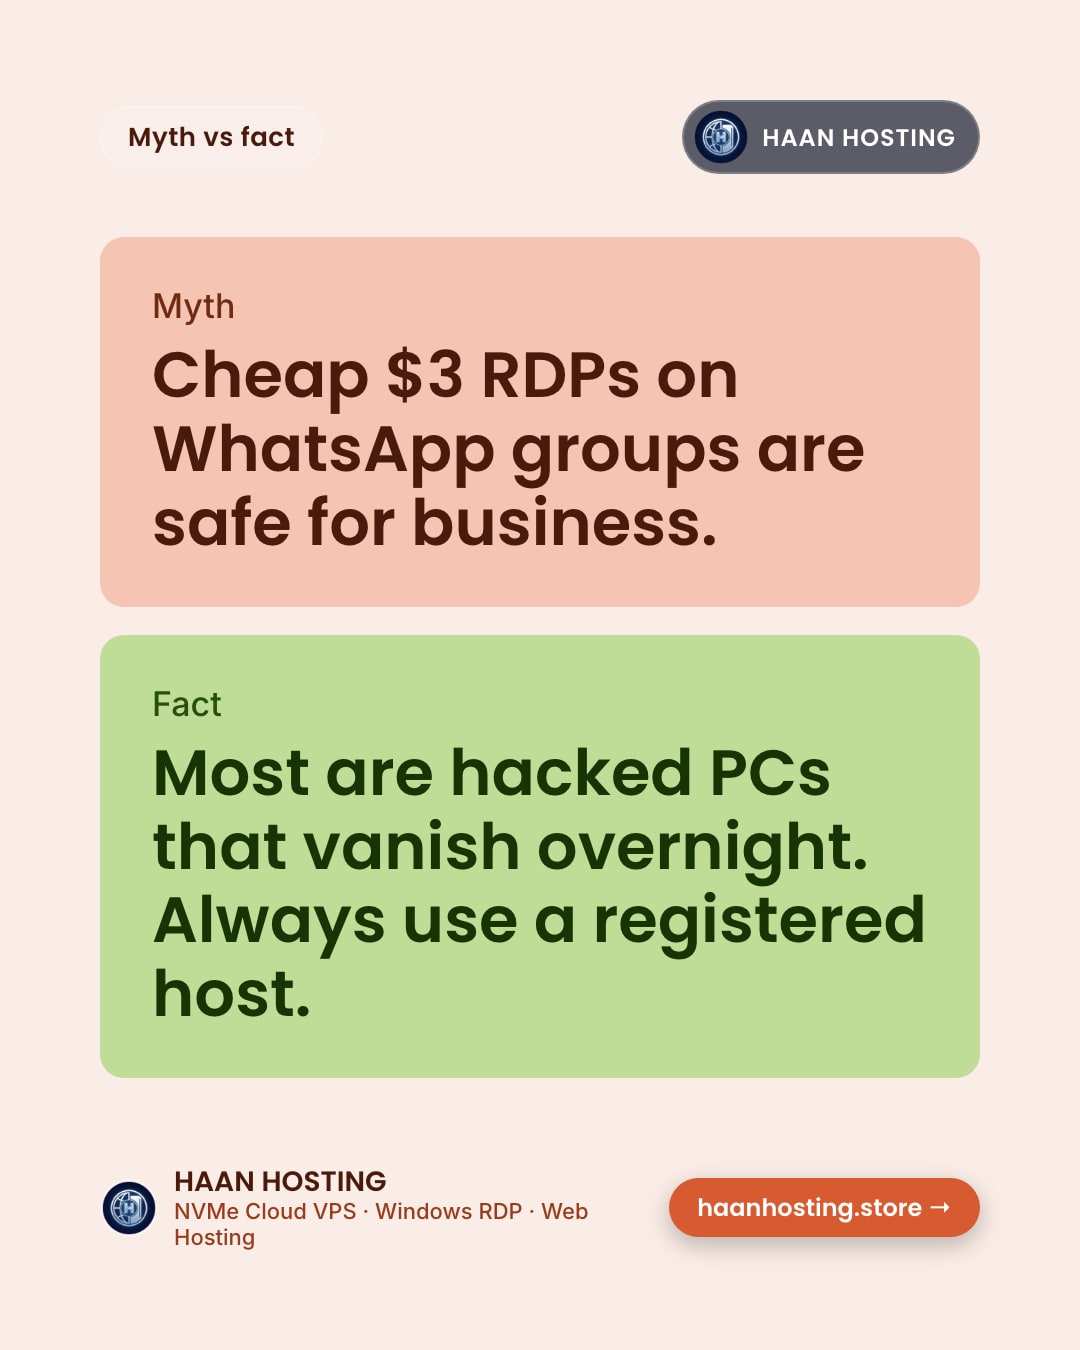
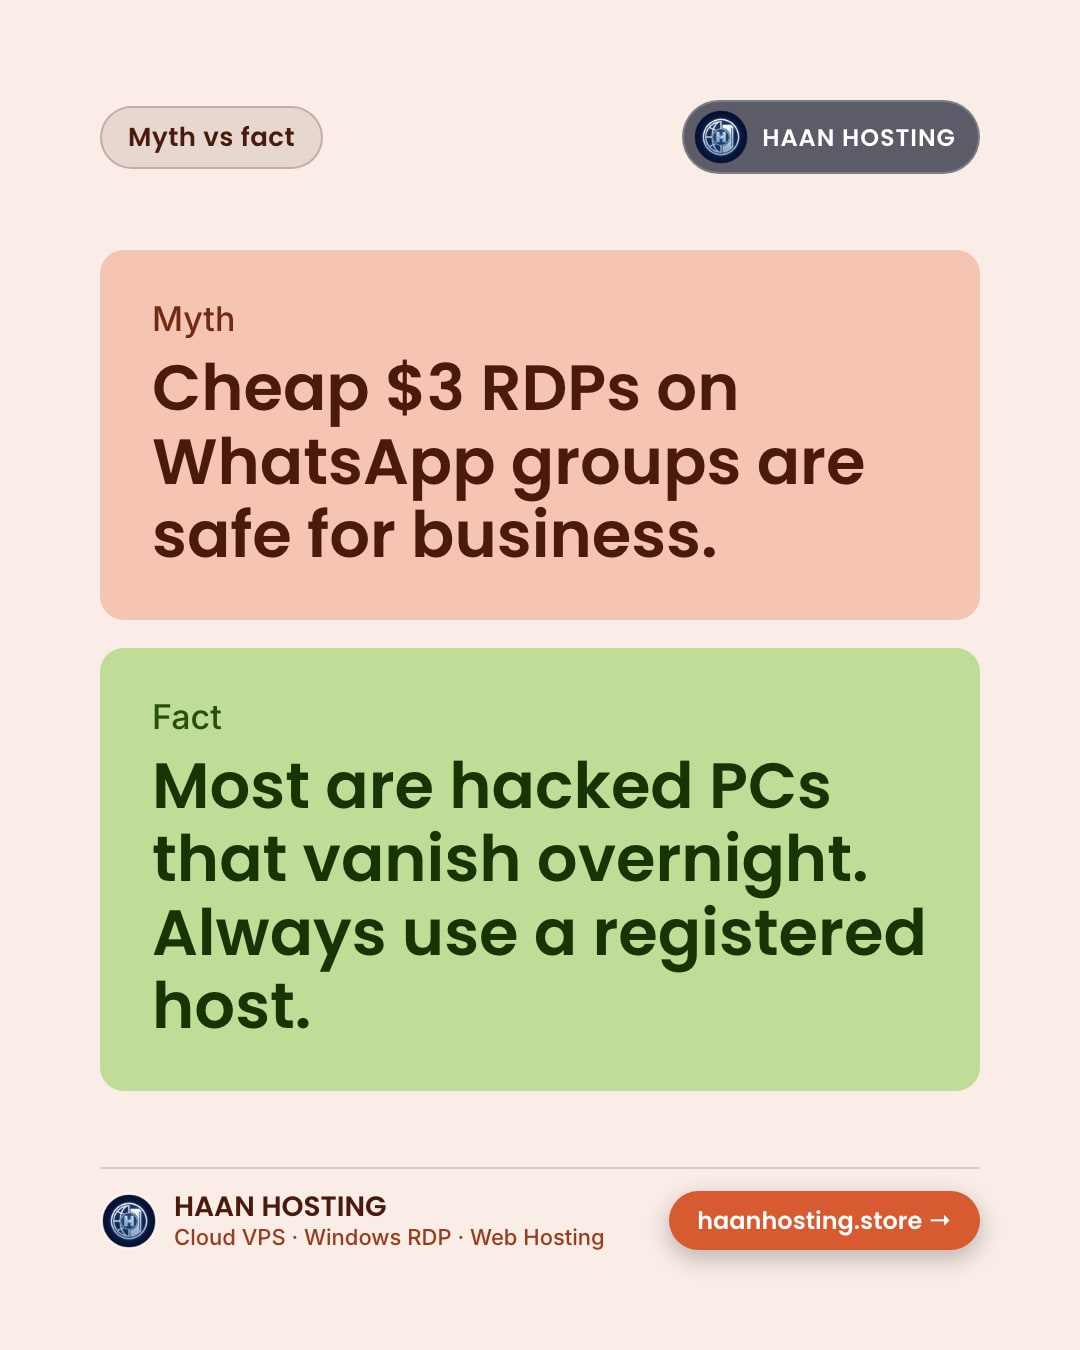
fix: switch to official Instagram API and fix publishing, queue and template bugs
Publishing
- Switch publisher from Upload-Post (10/mo free) to the official Instagram Graph API
- Auto-detect Graph host from token type (EAA -> graph.facebook.com, IG -> graph.instagram.com)
- Poll each carousel child container before creating the parent
- Build image URLs from current PAGES_BASE_URL instead of stale stored URLs
- Add `cli ig-check` to verify token, account, quota and media host without posting
- Disable weekly token refresh schedule (system-user token never expires)

Queue / scheduling
- Nightly generate no longer stacks duplicate batches on the same slot times
- Publish at most one due post per run and skip posts more than 90 min late
- Refuse "publish now" for posts that are not queued (prevents double-posts)
- Repair mojibake captions in state/queue.json

Cloudflare functions
- Decode GitHub base64 content as UTF-8 (fixes caption corruption)
- Dashboard-generated posts start without images so the workflow renders real ones
- Keep the workflow dispatch alive with context.waitUntil

Workflows
- Shared concurrency group for all state-writing workflows
- Pull --rebase with retry before push; render all unrendered posts nightly

Templates
- Fix T04 stat number overlapping its label
- Keep footer tagline on one line; borders/pills visible on light palettes

diff --git a/functions/api/[[route]].js b/functions/api/[[route]].js
@@ -50,7 +50,8 @@ async function loadGithubQueueIfConfigured(env) {
     });
     if (!res.ok) return null;
     const data = await res.json();
-    const decoded = atob(data.content.replace(/\n/g, ''));
+    const bin = atob(data.content.replace(/\n/g, ''));
+    const decoded = new TextDecoder().decode(Uint8Array.from(bin, c => c.charCodeAt(0)));
     return { queue: JSON.parse(decoded), sha: data.sha };
   } catch {
     return null;
@@ -283,6 +284,12 @@ export async function onRequest(context) {
       const queue = await getQueueState(context);
       const post = queue.find(p => p.id === body.postId);
       if (!post) return jsonResponse(404, { error: 'Post not found in queue' });
+      if (post.status !== 'queued') {
+        return jsonResponse(409, { error: `Post is '${post.status}', only queued posts can be published` });
+      }
+      if (!post.images?.length) {
+        return jsonResponse(409, { error: 'Post has no rendered images yet; wait for the render workflow' });
+      }
 
       if (!apiKey) {
         return jsonResponse(400, {
@@ -385,7 +392,6 @@ export async function onRequest(context) {
         usedHeadlines.add(headline);
 
         const templateId = chosen.template || (slot.format === 'carousel' ? 'T11-carousel' : 'T01-bold-statement');
-        const previewImg = `preview/renders/${templateId}.jpg`;
 
         newPosts.push({
           id: postId,
@@ -407,7 +413,8 @@ export async function onRequest(context) {
           caption: chosen.caption,
           hashtags: chosen.hashtags || ['#HaanHosting'],
           altText: chosen.altText || chosen.slides?.[0]?.headline || 'Haan Hosting post',
-          images: [previewImg],
+          // Left empty so the dispatched generate workflow renders this post's real images.
+          images: [],
           imageUrls: [],
           igMediaId: null,
           attempts: 0,
@@ -423,7 +430,8 @@ export async function onRequest(context) {
       const pat = env.GH_PAT;
       const repo = env.GITHUB_REPOSITORY || 'haanhosting/haan_agent';
       if (pat) {
-        fetch(`https://api.github.com/repos/${repo}/actions/workflows/generate.yml/dispatches`, {
+        // waitUntil keeps the worker alive until the dispatch request completes.
+        context.waitUntil(fetch(`https://api.github.com/repos/${repo}/actions/workflows/generate.yml/dispatches`, {
           method: 'POST',
           headers: {
             'Authorization': `Bearer ${pat}`,
@@ -432,7 +440,7 @@ export async function onRequest(context) {
             'Content-Type': 'application/json'
           },
           body: JSON.stringify({ ref: 'main' })
-        }).catch(() => {});
+        }).catch(() => {}));
       }
 
       return jsonResponse(200, { ok: true, count: newPosts.length, posts: newPosts.map(p => p.id) });

diff --git a/src/publish/instagramGraph.ts b/src/publish/instagramGraph.ts
@@ -13,6 +13,19 @@ export function loadPublisherConfig(): any {
   return JSON.parse(fs.readFileSync(p, 'utf8')).publisher.instagramGraph;
 }
 
+/**
+ * Picks the Graph API host for the token type:
+ * - Instagram-Login user tokens start with "IG"  -> graph.instagram.com
+ * - Facebook / system-user tokens start with "EAA" -> graph.facebook.com
+ * IG_GRAPH_BASE_URL overrides detection; config.baseUrl is used if it is not "auto".
+ */
+export function resolveGraphBaseUrl(token: string, configured?: string): string {
+  if (process.env.IG_GRAPH_BASE_URL) return process.env.IG_GRAPH_BASE_URL;
+  if (configured && configured !== 'auto') return configured;
+  if (token.startsWith('EAA')) return 'https://graph.facebook.com';
+  return 'https://graph.instagram.com';
+}
+
 function redactToken(urlOrStr: string): string {
   return urlOrStr.replace(/access_token=([^&]+)/gi, 'access_token=[REDACTED]');
 }
@@ -33,8 +46,8 @@ export class InstagramGraphClient {
   }) {
     const config = loadPublisherConfig();
     this.apiVersion = options?.apiVersion || config.apiVersion || 'v22.0';
-    this.baseUrl = options?.baseUrl || config.baseUrl || 'https://graph.instagram.com';
     this.token = options?.token || process.env.IG_ACCESS_TOKEN || '';
+    this.baseUrl = options?.baseUrl || resolveGraphBaseUrl(this.token, config.baseUrl);
     this.userId = options?.userId || process.env.IG_USER_ID || '';
     this.pollTimeoutMs = config.statusPollTimeoutMs || 90000;
     this.pollIntervalMs = config.statusPollIntervalMs || 3000;
@@ -74,6 +87,23 @@ export class InstagramGraphClient {
 
     console.log(`[IG Graph] Quota check: ${quotaUsage}/${configTotal} posts published in rolling 24h`);
     return { quotaUsage, configTotal };
+  }
+
+  /**
+   * Verifies the token and user ID by reading the account's username.
+   */
+  async verifyAccount(): Promise<{ id: string; username: string; baseUrl: string }> {
+    if (!this.token || !this.userId) {
+      throw new Error('IG_ACCESS_TOKEN or IG_USER_ID is missing from environment');
+    }
+    const url = `${this.baseUrl}/${this.apiVersion}/${this.userId}?fields=id,username`;
+    const res = await fetch(url, { headers: this.getHeaders() });
+    if (!res.ok) {
+      const err = await res.json().catch(() => ({}));
+      this.handleGraphError(err, res.status);
+    }
+    const data = await res.json() as any;
+    return { id: data.id, username: data.username, baseUrl: this.baseUrl };
   }
 
   /**
@@ -315,6 +345,8 @@ export class InstagramGraphClient {
       }
 
       const { id: childId } = (await res.json()) as any;
+      // Instagram must finish fetching each slide before the parent carousel can reference it.
+      await this.pollContainerStatus(childId);
       childIds.push(childId);
     }
 

diff --git a/src/cli.ts b/src/cli.ts
@@ -49,7 +49,9 @@ program
         history,
         postsPerDay: postsCount,
         existingQueue,
-        allowNewBatch: true
+        // Never stack extra batches on the same slot times from the scheduled run.
+        // Existing IDs for this date are skipped idempotently by enqueuePosts.
+        allowNewBatch: false
       });
 
       enqueuePosts(newPosts, { prepend: true });
@@ -240,6 +242,37 @@ program
       console.log(`✓ Token refreshed! Valid until: ${res.expiresAt} (${res.daysLeft} days remaining)`);
     } catch (err: any) {
       console.error(`\n❌ Token refresh failed: ${err.message}`);
+      process.exit(1);
+    }
+  });
+
+/**
+ * COMMAND: ig-check — verifies the Instagram token, account ID, quota and media hosting (posts nothing)
+ */
+program
+  .command('ig-check')
+  .description('Verify Instagram token, account ID, publishing quota and public media URL (does not post)')
+  .action(async () => {
+    try {
+      const token = process.env.IG_ACCESS_TOKEN || '';
+      console.log(`Token type: ${token.startsWith('EAA') ? 'Facebook/system-user (EAA…)' : token.startsWith('IG') ? 'Instagram Login (IG…)' : token ? 'unknown prefix' : 'MISSING'}`);
+      const client = new InstagramGraphClient();
+      const acct = await client.verifyAccount();
+      console.log(`✓ Account OK: @${acct.username} (id ${acct.id}) via ${acct.baseUrl}`);
+      const quota = await client.checkPublishingLimit();
+      console.log(`✓ Publishing quota: ${quota.quotaUsage}/${quota.configTotal} used in last 24h`);
+
+      const base = process.env.PAGES_BASE_URL || '';
+      if (!base || base.includes('username.github.io')) {
+        console.log('✗ PAGES_BASE_URL is not set to your real public site');
+      } else {
+        const sample = getPublicMediaUrl('logo/logo.png');
+        const res = await fetch(sample, { method: 'HEAD' });
+        const type = res.headers.get('content-type') || '';
+        console.log(`${res.ok && type.startsWith('image/') ? '✓' : '✗'} Media host: ${sample} -> HTTP ${res.status} ${type}`);
+      }
+    } catch (err: any) {
+      console.error(`\n❌ ig-check failed: ${err.message}`);
       process.exit(1);
     }
   });

diff --git a/src/state/stateManager.ts b/src/state/stateManager.ts
@@ -71,8 +71,11 @@ export function enqueuePosts(
   return { added, existing };
 }
 
+/** Posts more than this late are considered missed and are not auto-published. */
+export const MAX_LATENESS_MS = 90 * 60 * 1000;
+
 /**
- * Finds all posts due for publishing right now.
+ * Finds the next post due for publishing right now (at most one per run).
  */
 export function getDuePosts(referenceTime: Date = new Date()): PreparedPost[] {
   const queue = loadQueue();
@@ -91,8 +94,16 @@ export function getDuePosts(referenceTime: Date = new Date()): PreparedPost[] {
     // 4. Must not have exceeded max retries (3)
     if (post.attempts >= 3) return false;
 
+    // 5. Must not be stale: a post that missed its slot by more than the cutoff
+    // is skipped rather than dumped onto the feed alongside other backlog posts.
+    const lateMs = referenceTime.getTime() - new Date(post.scheduledAt).getTime();
+    if (lateMs > MAX_LATENESS_MS) return false;
+
     return true;
-  });
+  })
+    .sort((a, b) => new Date(a.scheduledAt).getTime() - new Date(b.scheduledAt).getTime())
+    // Publish at most one post per run so a backlog never floods the account.
+    .slice(0, 1);
 }
 
 /**

diff --git a/tests/state.test.ts b/tests/state.test.ts
@@ -80,6 +80,20 @@ describe('State Management & Queue Lifecycle', () => {
     expect(due[0].id).toBe(samplePost.id);
   });
 
+  it('skips stale posts and returns at most one (oldest) due post per run', () => {
+    const later = { ...samplePost, id: 'test-2026-11-18-slot2', slot: 2, scheduledAt: '2026-11-18T10:00:00+05:00' };
+    const batchDupe = { ...samplePost, id: 'test-2026-11-18-slot1-b2' };
+    enqueuePosts([later, samplePost, batchDupe]);
+
+    // 05:10Z: slot1 (04:30Z) and slot2 (05:00Z) are both due -> only the oldest is returned
+    const due = getDuePosts(new Date('2026-11-18T05:10:00Z'));
+    expect(due).toHaveLength(1);
+    expect(due[0].scheduledAt).toBe(samplePost.scheduledAt);
+
+    // Next day: everything is far overdue -> nothing is auto-published
+    expect(getDuePosts(new Date('2026-11-19T05:00:00Z'))).toHaveLength(0);
+  });
+
   it('transitions status from queued to publishing to posted, writing to history', () => {
     enqueuePosts([samplePost]);
 

diff --git a/src/render/renderer.ts b/src/render/renderer.ts
@@ -154,7 +154,7 @@ export async function renderSlide(options: RenderOptions): Promise<string> {
 
   rawHtml = rawHtml.replace(
     /<div class="footer">(?:Haan Hosting · )?{{cta}}<\/div>/g,
-    `<div class="footer"><div class="brand-footer-left"><img src="{{logoDataUri}}" alt="HAAN" /><div><div class="brand-footer-title">HAAN HOSTING</div><div class="brand-footer-sub">NVMe Cloud VPS · Windows RDP · Web Hosting</div></div></div><div class="brand-footer-cta">{{cta}} →</div></div>`
+    `<div class="footer"><div class="brand-footer-left"><img src="{{logoDataUri}}" alt="HAAN" /><div><div class="brand-footer-title">HAAN HOSTING</div><div class="brand-footer-sub">Cloud VPS · Windows RDP · Web Hosting</div></div></div><div class="brand-footer-cta">{{cta}} →</div></div>`
   );
 
   // Resolve palette

diff --git a/src/publish/publisher.ts b/src/publish/publisher.ts
@@ -20,9 +20,10 @@ export async function publishPost(
   console.log(`[Publisher] Dispatching post ${post.id} (Pillar: ${post.pillar}, Format: ${post.format}) via ${activePublisher}`);
 
   // Ensure image URLs are set
-  const imageUrls = post.imageUrls && post.imageUrls.length > 0
-    ? post.imageUrls
-    : post.images.map(img => getPublicMediaUrl(img));
+  // Always derive URLs from the current PAGES_BASE_URL; stored imageUrls may hold a stale host.
+  const imageUrls = post.images && post.images.length > 0
+    ? post.images.map(img => getPublicMediaUrl(img))
+    : (post.imageUrls || []);
 
   if (imageUrls.length === 0 && (!post.images || post.images.length === 0)) {
     throw new Error(`Post ${post.id} has no images associated with it`);

diff --git a/templates/_shared/base.css b/templates/_shared/base.css
@@ -109,8 +109,8 @@ html, body {
 }
 
 .brand-top-pill {
-  background: rgba(255, 255, 255, 0.12);
-  border: 2px solid rgba(255, 255, 255, 0.22);
+  background: color-mix(in srgb, var(--ink) 10%, transparent);
+  border: 2px solid color-mix(in srgb, var(--ink) 22%, transparent);
   padding: 10px 26px;
   border-radius: 999px;
   font-family: 'Poppins', sans-serif;
@@ -157,7 +157,7 @@ html, body {
   align-items: center;
   width: 100%;
   padding-top: 22px;
-  border-top: 2px solid rgba(255, 255, 255, 0.16);
+  border-top: 2px solid color-mix(in srgb, var(--ink) 16%, transparent);
 }
 
 .brand-footer-left {
@@ -184,6 +184,7 @@ html, body {
 
 .brand-footer-sub {
   font-size: 22px;
+  white-space: nowrap;
   color: var(--muted);
 }
 

diff --git a/src/server.ts b/src/server.ts
@@ -1257,6 +1257,10 @@ const server = http.createServer(async (req, res) => {
         sendJson(res, 404, { error: 'Post not found in queue' });
         return;
       }
+      if (post.status !== 'queued') {
+        sendJson(res, 409, { error: `Post is '${post.status}', only queued posts can be published` });
+        return;
+      }
       updatePostStatus(post.id, 'publishing');
       try {
         const result = await publishPost(post, { dryRun: false, skipMediaWait: true });

diff --git a/templates/T04-big-number/template.html b/templates/T04-big-number/template.html
@@ -30,7 +30,8 @@
       font-family: Poppins, sans-serif;
       font-weight: 600;
       font-size: 148px;
-      line-height: 1.0;
+      line-height: 1.15;
+      padding-bottom: 8px;
       color: var(--accent);
     }
     .t04 .stat-label {
